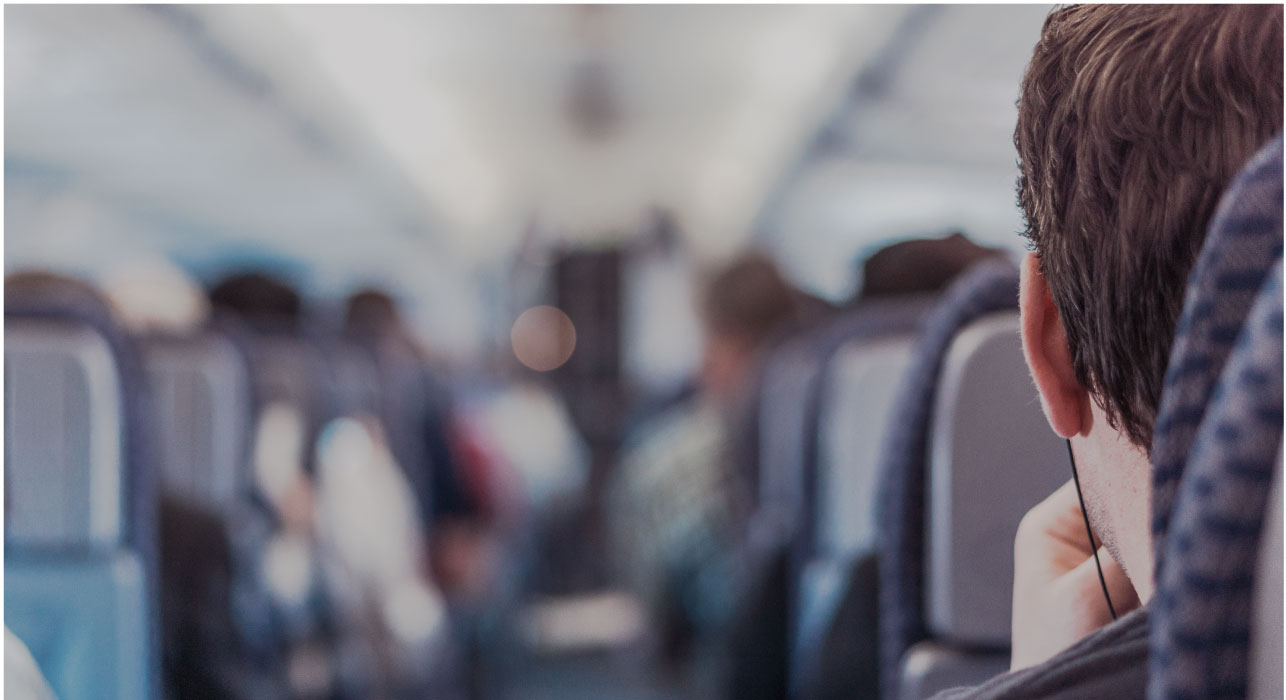
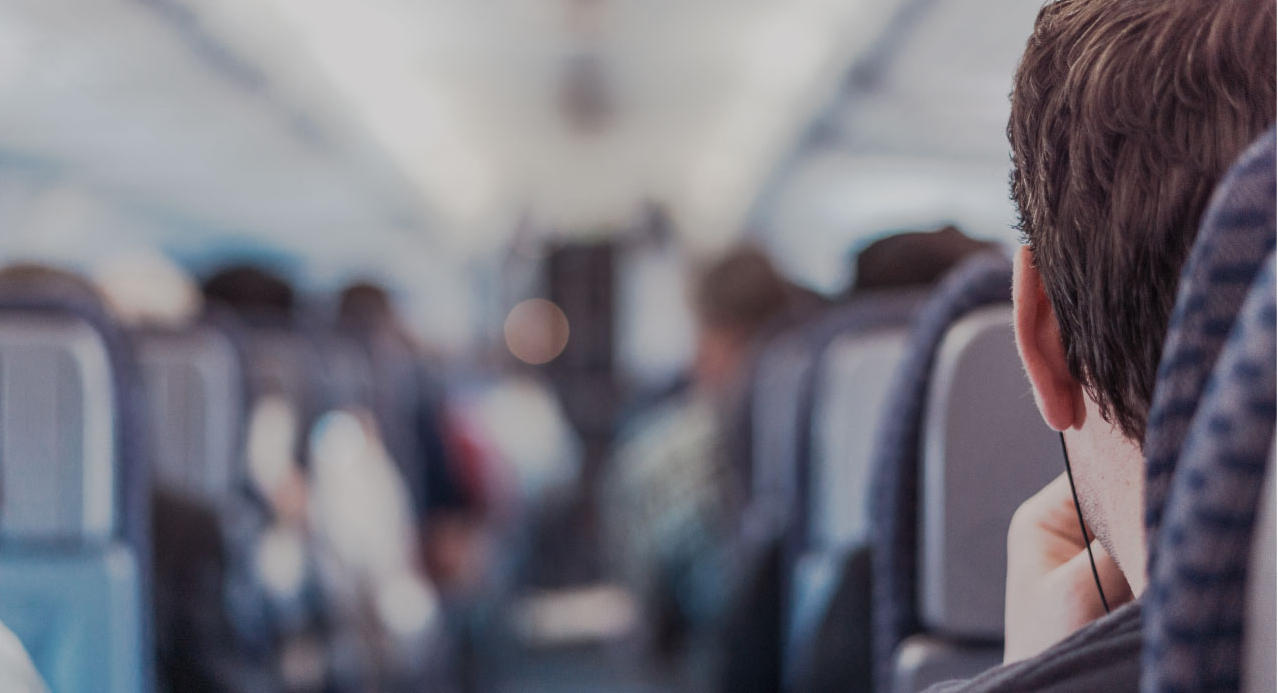
task7 complete

diff --git a/WEIWEI/TASK7/css/style.css b/WEIWEI/TASK7/css/style.css
@@ -8,23 +8,28 @@ button{ background-color: transparent; border: none; outline: none; text-align: 
 .right{ float: right; }
 .clearfix{ overflow: hidden; zoom: 1;}
 i{ display: inline-block; }
+input, textarea{ outline: none; border: none; }
+
+
 
 
 #main{ width: 100%; height: 56px; line-height: 56px; }
 #main * { display: inline-block; vertical-align: middle; }
 #logo{ margin-left: 59px; width: 104px; height:31px; background: url(img/logo.png) no-repeat 0 50%; }
-#main nav{ float: right; width: 532px; margin-right: 67px; }
-#main nav ul{ list-style: none; }
-#main nav ul li{ padding: 0 13px; text-align: center; border-bottom: 5px solid transparent;}
+#main nav{ float: right; width: 532px; margin-right: 52px; }
+#main nav ul{ float: right; height: 50px; line-height: 50px; list-style: none; }
+#main nav ul li{ padding: 0 15px; text-align: center; border-bottom: 5px solid transparent;}
 #main nav ul li a{ color: #787b83; font-family: "Microsoft YaHei"; font-size: 14px; }
 #main nav ul li.active{ border-bottom: 5px solid #e74f4d; }
 #main nav ul li.active a{ color: #e74f4d;}
-#main nav .login i{ width:14px; height: 17px; background: url(img/login_icon.png) no-repeat 0 50%; }
+#main nav .login a{ color: #e74f4d; font-weight: bold; }
+#main nav .login i{ width:14px; height: 17px; margin-right: 5px; background: url(img/login_icon.png) no-repeat 0 50%; }
 
 
 
 #row1 .banner{ position: relative; width: 100%; height: 700px; }
 .bg{ position: absolute; left: 0; top: 0; width: 100%; height: 100%; z-index: 0; }
+.bg img{ width: 100%; height: 100%; }
 #row1 .banner .text{ position: absolute; left: 116px; top: 229px; width: 458px; height: 264px; color: #fff; z-index: 10; font-family: "Microsoft YaHei"; }
 #row1 .text h2{ font-size: 60px; font-weight: normal; }
 #row1 .text p{ width: 310px; font-size: 21px; line-height: 35px; }
@@ -44,27 +49,30 @@ i{ display: inline-block; }
 
 
 #row2{ background-color: #edecec; text-align: center; padding-top: 89px; padding-bottom: 78px; }
-#row2 h2{ margin-top: 40px; color: #a1a1a1; font-family: "SimHei"; font-size: 54px; }
+#row2 h2{ margin-top: 40px; color: #a1a1a1; font-family: "SimHei"; font-size: 54px; font-weight: normal; }
 #row2 .icon{ display: inline-block; width: 91px; height: 92px; background: url(img/logo_big.png) no-repeat 50% 50%; }
 
 
 
 
-.hr{ display: inline-block; width: 31px; height: 3px; background-color: #fff; }
+.hr{ width: 31px; height: 3px; margin: 0 auto; margin-top: 8px; margin-bottom: 19px; background-color: #fff; }
 
 #row3{ position: relative; width: 100%; height: 340px;  font-family: "Microsoft YaHei";}
 #row3 .text{ position: absolute; width: 100%; height: 100%; z-index: 10;  color: #fff; text-align: center;}
 #row3 h3{ margin-top: 53px; font-size: 21px; font-weight: normal; }
-#row3 form{ margin-top: 84px; }
-#row3 form .select, button{ display: inline-block; width: 256px; height: 36px; line-height: 36px; }
+#row3 p{ font-size: 12px; font-family: "Microsoft YaHei"; }
+#row3 form{ margin-top: 49px; }
+#row3 form .select, #row3 form .select button{ display: inline-block; width: 236px; height: 36px; margin-right: 27px; line-height: 36px; }
 #row3 form .select{ color: #a8aaaa; font-size: 12px; text-indent: 12px; }
+#row3 form button{font-family: "Microsoft YaHei"; font-size: 14px; }
 .select{ position: relative; background: #fff; text-align: left; }
 .select .arrow{ position: absolute; right: 9px; top: 9px; width: 19px; height: 18px; background: url(img/select_arrow.jpg) no-repeat 50% 50%;}
 .select ul{ display: none; list-style: none; position: absolute; top: 36px; left: -1px; width: 100%; padding-bottom: 12px; background-color: #e3e3e4; z-index: 100; }
 .select ul.shown{ display: block; }
-.select ul li{ font-size: 12px; color: #787879; }
+.select ul li{ height: 27px; line-height: 27px; font-size: 12px; color: #787879; }
 .select ul li.selected{ background-color: #be4e48; color: #fff;}
-.select ul li.selected::before{ content: ""; display: inline-block; width: 12px; height: 8px; background: url(img/select_tick.png) no-repeat 0 50%; margin-right: 11px; }
+.select ul li::before{ content: ""; display: inline-block; width: 12px; height: 8px; margin-right: 11px; }
+.select ul li.selected::before{ content: ""; background: url(img/select_tick.png) no-repeat 0 50%; }
 #row3 form .select.active{ border: 1px solid #bf4f49;}
 .select.active ul{ border: 1px solid #bf4f49; border-top-width: 0; }
 
@@ -72,44 +80,44 @@ i{ display: inline-block; }
 
 
 #row4{ width: 100%; height: 405px; padding: 100px 0; background-color: #f8f8f8; text-align: center; }
-#row4 .inner{ position: relative; display: inline-block; vertical-align: middle; width: 995px; height: 395px; }
+#row4 .inner{ position: relative; display: inline-block; vertical-align: middle; width: 995px; max-width: 100%; min-height: 395px; overflow: auto; }
 #row4 figure{ position: absolute; width:219px; text-align: center; font-family: "Microsoft YaHei"; }
 #row4 figure:first-of-type{ left: 0; top: 0; }
-#row4 figure:nth-of-type(2){ left: 258px; top: 52px; }
+#row4 figure:nth-of-type(2){ left: 258px; top: -10px; }
 #row4 figure:nth-of-type(3){ left: 509px; top: 0; }
-#row4 figure:nth-of-type(4){ left: 765px; top: 0; }
+#row4 figure:nth-of-type(4){ left: 765px; /*right: 0;*/ top: 0; }
 #row4 figure .border{ padding: 11px 9px 12px 8px; border: 1px solid #dadada; background-color: #fff;}
 #row4 figure .img{ width: 200px; height: 310px; background: url(../image/painting.jpg) no-repeat 0 50%; }
 #row4 figure:first-of-type .img{ background-position: 0 0; }
 #row4 figure:nth-of-type(2) .img{ background-position: -219px 0; }
 #row4 figure:nth-of-type(3) .img{ background-position: -423px 0; }
 #row4 figure:nth-of-type(4) .img{ background-position: -634px 0; }
-#row4 figure h4{ color: #333; font-size: 16px; line-height: 30px; font-weight: normal; font-family: "Microsoft YaHei";}
+#row4 figure h4{ margin-top: 9px; color: #333; font-size: 15px; line-height: 30px; font-weight: normal; font-family: "Microsoft YaHei";}
 #row4 figure p{ color: #898a8a; font-size: 12px; margin-bottom: 5px; }
-#row4 figure:nth-of-type(2) h4{ font-size: 19px; letter-spacing: 33px; text-align: center; }
+#row4 figure:nth-of-type(2) h4{ font-size: 20px; letter-spacing: 43px; margin-right: -43px; text-align: center; }
 #row4 figure figcaption{ width: 100%; }
 
 
 
-.row{ overflow: hidden; zoom: 1;}
+
 #row5 button{ width: auto; padding: 0 30px; height: 35px; line-height: 35px; background-color: transparent; border: 1px solid #e25c60; color: #e25c60;}
 
 #grid1{ float: left; position: relative; width: 853px; height: 567px; text-align: center; color: #fff; font-family: "Microsoft YaHei"; }
 #grid1 img{ position: absolute; left: 0; top: 0; z-index: 0; }
 #grid1 figcaption{ position: absolute; left: 0; top: 0; width: 100%; height: 100%; z-index: 10; }
-#grid1 figcaption h3{ margin-top: 131px; font-size: 50px; font-weight: normal; }
+#grid1 figcaption h3{ margin-top: 121px; font-size: 50px; font-weight: normal; }
 #grid1 figcaption h2{ font-size: 158px; line-height: 130px; font-weight: normal; }
 #grid1 figcaption p{ font-size: 22px; }
 #grid1 figcaption p:first-of-type{ margin-top: 30px; }
 #grid1 figcaption p:nth-of-type(2){ margin-top: 12px; }
 
 
-#grid2{ position: relative; float: right; width: 294px; padding: 155px 69px 119px 64px; font-family: "Microsoft YaHei"; text-align: center; }
-#grid2 .triangle{ position: absolute; left: -38px; top: 50%; width: 0; height: 0; border-width: 14px 21px 14px 15px; border-color: transparent #fff transparent transparent; border-style: solid; z-index: 10; }
+#grid2{ position: relative; float: right; width: 294px; height: 285px; padding: 163px 69px 119px 64px; font-family: "Microsoft YaHei"; text-align: center; }
+#grid2 .triangle{ position: absolute; left: -38px; top: 50%; margin-top: -17px; width: 0; height: 0; border-width: 14px 21px 14px 15px; border-color: transparent #fff transparent transparent; border-style: solid; z-index: 10; }
 #grid2 h3{ margin-bottom: 22px; font-size: 20px; font-family: "SimHei"; }
 #grid2 h3 span{ color: #e74f4d; }
-#grid2 p{ line-height: 30px; color: #aaaaaa; font-family: "SimSun"; text-align: left; }
-#grid2 button{ margin-top: 28px; }
+#grid2 p{ line-height: 30px; color: #aaaaaa; font-family: "SimSun"; font-size: 12px; text-align: left; }
+#grid2 button{ margin-top: 40px; }
 #grid2 ul{ width: 60px; margin: 0 auto; margin-top: 24px; list-style: none; overflow: hidden; zoom: 1; }
 #grid2 ul li{ float: left; width: 9px; height: 9px; margin-right: 13px; border: 1px solid #929292; border-radius: 100%; }
 #grid2 ul li.active{ background-color: #929292; }
@@ -121,7 +129,59 @@ i{ display: inline-block; }
 #grid3 .col:first-child{ background-color: #e74f4d; color: #fff; }
 #grid3 .col:nth-child(2){ color: #323333;}
 #grid3 .col h3{ margin-top: 172px; font-weight: normal; font-family: "SimHei"; font-size: 21px; line-height: 30px;}
-#grid3 .col button{ display: block; margin: 0 auto; margin-top: 25px; }
+#grid3 .col button{ display: block; margin: 0 auto; width: 166px; height: 43px; margin-top: 25px; }
 #grid3 .col:first-child button{ border: 1px solid #fff; color: #fff; }
 #grid3 .col:nth-child(2) .hr{ background-color: #aaa; }
 .triangle-right{ position: absolute; left: 0; top: 50%; width: 0; height: 0; border-width: 14px 14px 14px 21px; border-style: solid; border-color: transparent transparent transparent #fff;}
+
+
+
+
+#row6 { width: 100%; overflow: hidden; zoom: 1; padding-top: 114px; text-align: center; }
+#row6 h3{ font-weight: normal; font-family: "SimHei"; }
+#row6 > h3{ font-size: 21px; line-height: 30px; }
+#row6 > .hr{ background-color: #e74f4d; }
+#row6 > p{ margin-bottom: 107px; font-family: "Microsoft YaHei"; font-size: 12px; line-height: 18px; color: #aaa;}
+#row6 .row{ text-align: left; }
+#row6 .left .item{ overflow: hidden; zoom: 1; }
+#row6 .left h3{ font-size: 14px; color: #231815; margin-bottom: 22px; }
+#row6 .left p, #row6 .left .more a{ font-family: "SimSun"; font-size: 12px; color: #979291; }
+#row6 .left p{ line-height: 21px; }
+#row6 .left .more{ float: right; }
+#row6 .left .more::before{ content: ""; display: inline-block; margin-right: 7px; width: 10px; height: 6px; background: url(img/arrow_down.png) no-repeat 50% 50%; } 
+
+
+#row6 .left{ width: 293px; margin-left: 138px; margin-top: 12px; }
+#row6 .right{ width: 641px; margin-right: 138px; overflow: hidden; zoom: 1;}
+.col-6{ float: left; width: 311px; margin-right: 17px; }
+#row6 form{ width: 641px; margin-bottom: 165px; font-family: "SimSun"; font-size: 12px; }
+#row6 input, #row6 textarea, #row6 form button{ margin-bottom: 13px; width: 100%; background-color: #ececee; color: #6c6868;}
+#row6 input, #row6 button{ height: 40px; line-height: 40px; }
+#row6 input{ text-indent: 17px; }
+#row6 textarea{ padding: 15px 17px; height: 90px; }
+#row6 .col-6:nth-child(even){ margin-right: 0; }
+#row6 form button{ border: none; font-weight: 900;}
+
+
+
+
+
+#row7{ background-color: #33363f; padding: 83px 384px 72px 384px; text-align: center; color: #fff;}
+#row7 h3{ font-family: "SimHei"; font-size: 21px; line-height: 38px; }
+#row7 p{ font-family: "SimSun"; font-size: 12px; line-height: 18px; margin-bottom: 20px; }
+form .input-group{ font-size: 0; }
+form .input-group > * { display: inline-block; *display: inline; vertical-align: top; height: 40px; line-height: 40px; font-family: "Microsoft YaHei";  }
+#row7 form input{ width: 420px; text-indent: 10px; background-color: #fff; font-size: 14px; color: #aaa; border: 1px solid #a5a6aa; }
+#row7 form .input-group button{ width: 80px; height: 42px; background-color: #6f7278; color: #fff; font-size: 15px; }
+#row7 form{ margin-bottom: 37px; }
+#row7 .share > a { display: inline-block; *display: inline; vertical-align: top; background-position: 50% 50%; width: 50px; height: 25px; background-repeat: no-repeat; }
+#row7 .share .qq{ background-image: url(img/qq_icon.png); }
+#row7 .share .weibo{ background-image: url(img/weibo_icon.png); }
+#row7 .share .twitter{ background-image: url(img/twitter_icon.png); }
+#row7 .share .global{ background-image: url(img/global_icon.png); }
+
+
+
+footer{ width: 100%; height: 55px; line-height: 55px; color: #fff; overflow: hidden; zoom: 1; background-color: #303039; font-family: "SimSun"; font-size: 12px; }
+footer p{ display: inline; margin-left: 100px; }
+footer .toTop{ float: right; margin-right: 40px; color: #fff; }

diff --git a/WEIWEI/TASK7/index.html b/WEIWEI/TASK7/index.html
@@ -93,7 +93,7 @@
 							<li>北京</li>
 						</ul>
 					</div>
-					<button>搜索</button>
+					<button>搜 &nbsp;&nbsp;索</button>
 				</form>
 			</div>
 			<div class="bg">
@@ -170,7 +170,7 @@
 
 			<div class="row" id="grid3">
 				<div class="col">
-					<h3>tzz</h3>
+					<h3>新时代 <br>关于爱生活的我们</h3>
 					<div class="hr"></div>
 					<button>查看更多</button>
 				</div>
@@ -184,72 +184,70 @@
 					<img src="image/image3.jpg" alt="image3">
 				</div>
 			</div>
+		</div>
 
+		<div id="row6" class="row">
+			<h3>成为我们的志愿者</h3>
+			<div class="hr"></div>
+			<p>新世界的大家庭需要每一个爱生活的人的加入，如果你够年轻，有梦想，有激情 <br>那就不要犹豫，快来加入我们，成为改变所有人生活的人 </p>
 			<div class="row">
-				<h3>成为我们的志愿者</h3>
-				<div class="hr"></div>
-				<p>新世界的大家庭需要每一个爱生活的人的加入，如果你够年轻，有梦想，有激情 <br>那就不要犹豫，快来加入我们，成为改变所有人生活的人 </p>
-				<div class="row">
-					<div class="left">
-						<div class="item">
-							<h3>新世界志愿者协议</h3>
-							<p>加入新世界志愿者的人员必须遵守中华人民共共和国的相关法律法规，并且本着平等资源的原则 ......</p>
-							<div class="more"><i></i>more</div>
-						</div>
-						<div class="item">
-							<h3>新世界志愿者权利</h3>
-							<p>新世界志愿者享受新世界内部所有资源共享的权利，并且享受所在四新世界活动的优先参与资格</p>
-							<div class="more"><i></i>more</div>
-						</div>
-						<div class="item">
-							<h3>更多条款</h3>
-							<div class="more"><i></i>more</div>
-						</div>
+				<div class="left">
+					<div class="item">
+						<h3>新世界志愿者协议</h3>
+						<p>加入新世界志愿者的人员必须遵守中华人民共共和国的相关法律法规，并且本着平等资源的原则 ......</p>
+						<div class="more"><a href="">more</a></div>
 					</div>
-					<div class="right">
-						<form action="">
-							<div class="col-6">
-								<input type="text" value="姓名：">
-							</div>
-							<div class="col-6">
-								<input type="text" value="姓名：年龄：">
-							</div>
-							<div class="col-6">
-								<input type="text" value="联系方式：">
-							</div>
-							<div class="col-6">
-								<input type="text" value="联系地址：">
-							</div>
-							<textarea name="" id="" cols="30" rows="10">
-								请简单描述您梦想的生活：
-							</textarea>
-							<button>提交申请</button>
-						</form>
+					<div class="item">
+						<h3>新世界志愿者权利</h3>
+						<p>新世界志愿者享受新世界内部所有资源共享的权利，并且享受所在四新世界活动的优先参与资格</p>
+						<div class="more"><a href="">more</a></div>
 					</div>
+					<div class="item">
+						<h3>更多条款</h3>
+						<div class="more"><a href="">more</a></div>
+					</div>
+				</div>
+				<div class="right">
+					<form action="">
+						<div class="col-6">
+							<input type="text" value="姓名：">
+						</div>
+						<div class="col-6">
+							<input type="text" value="年龄：">
+						</div>
+						<div class="col-6">
+							<input type="text" value="联系方式：">
+						</div>
+						<div class="col-6">
+							<input type="text" value="联系地址：">
+						</div>
+						<textarea name="" id="" cols="30" rows="10">请简单描述您梦想的生活：</textarea>
+						<button>提交申请</button>
+					</form>
 				</div>
 			</div>
+		</div>
 
-			<div class="row">
-				<h3>联系我们</h3>
-				<p>为了更好的获取我们最新的产品资讯，您可以留下您的电子邮箱快速订阅我们的产品资讯也可以通过以下任何方式关注我们动态</p>
-				<form action="">
-					<div class="input-group">
-						<input type="text" placeHolder="someone@email.com">
-						<button>提交</button>
-					</div>
-				</form>
-				<div>
-					<a href="" class="qq"></a>
-					<a href="" class="weibo"></a>
-					<a href="" class="twitter"></a>
-					<a href="" class="global"></a>
+		<div id="row7" class="row">
+			<h3>联系我们</h3>
+			<p>为了更好的获取我们最新的产品资讯，您可以留下您的电子邮箱快速订阅我们的产品资讯也可以通过以下任何方式关注我们动态</p>
+			<form action="">
+				<div class="input-group">
+					<input type="text" placeHolder="someone@email.com">
+					<button>提 交</button>
 				</div>
+			</form>
+			<div class="share">
+				<a href="" class="qq"></a>
+				<a href="" class="weibo"></a>
+				<a href="" class="twitter"></a>
+				<a href="" class="global"></a>
 			</div>
 		</div>
 
 		<footer>
 			<p>&copy;新世界</p>
-			<a href="#">Back to top</a>
+			<a href="#" class="toTop">Back to top</a>
 		</footer>
 	</div>
 </body>
